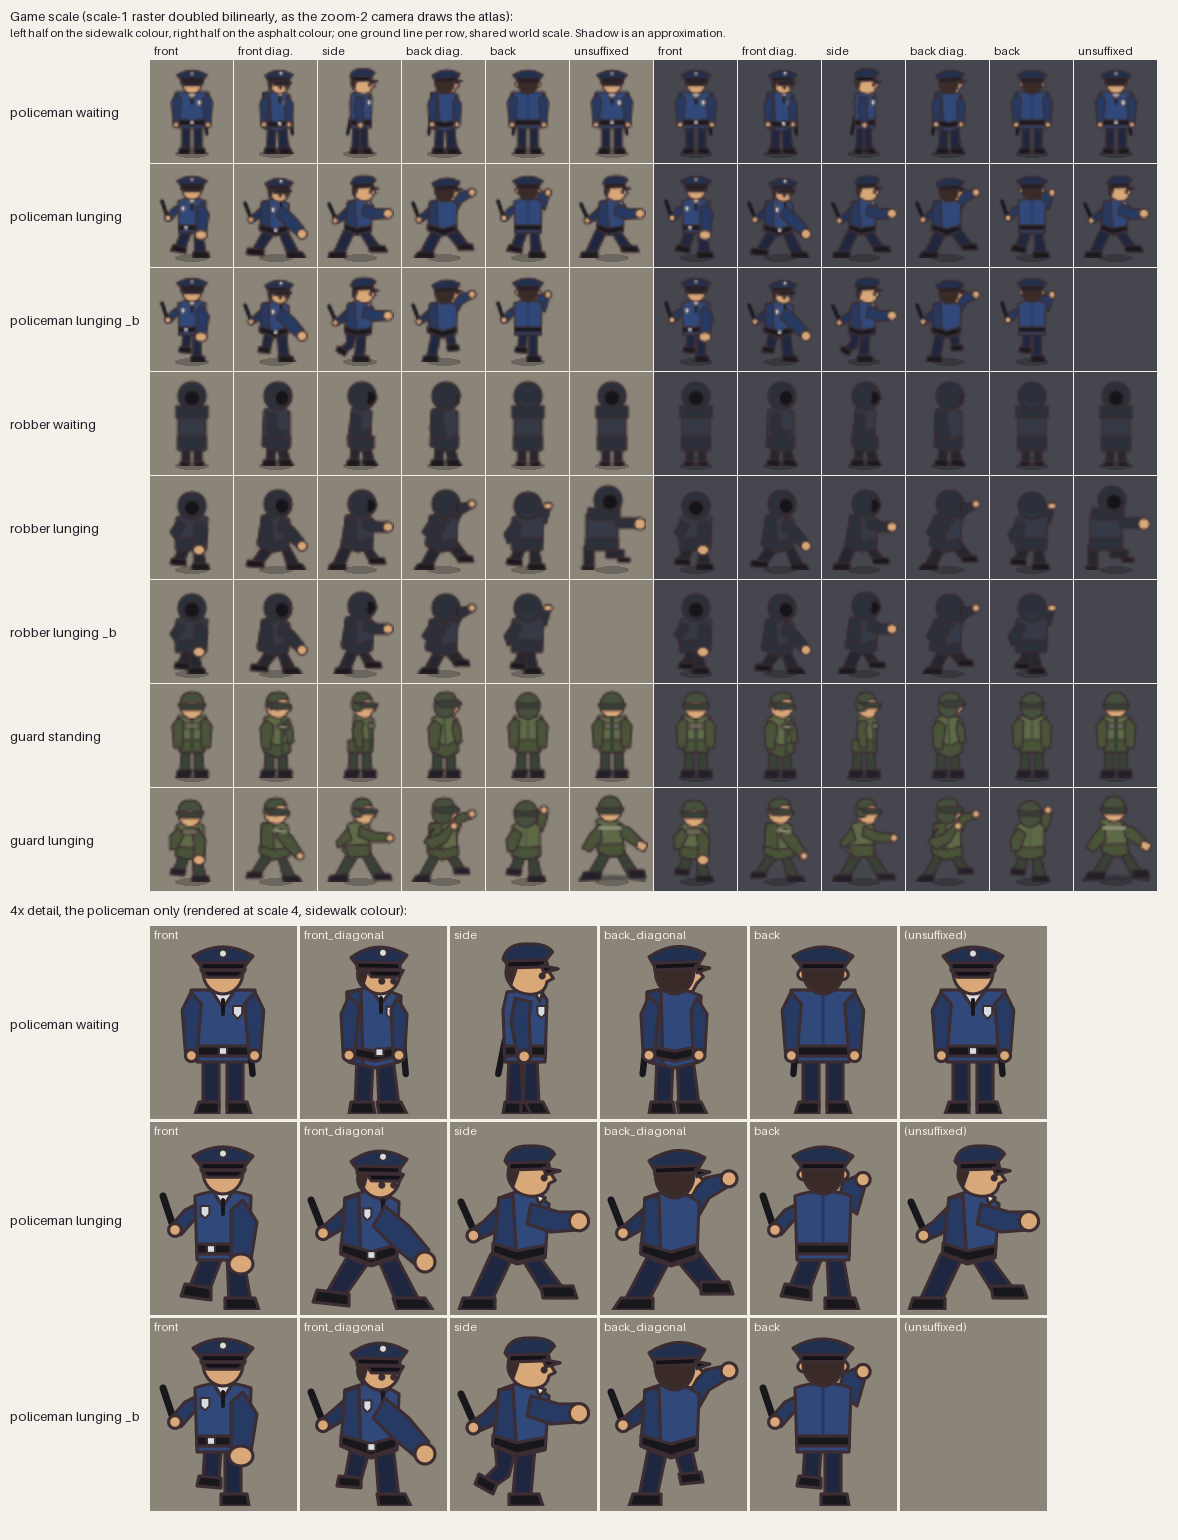
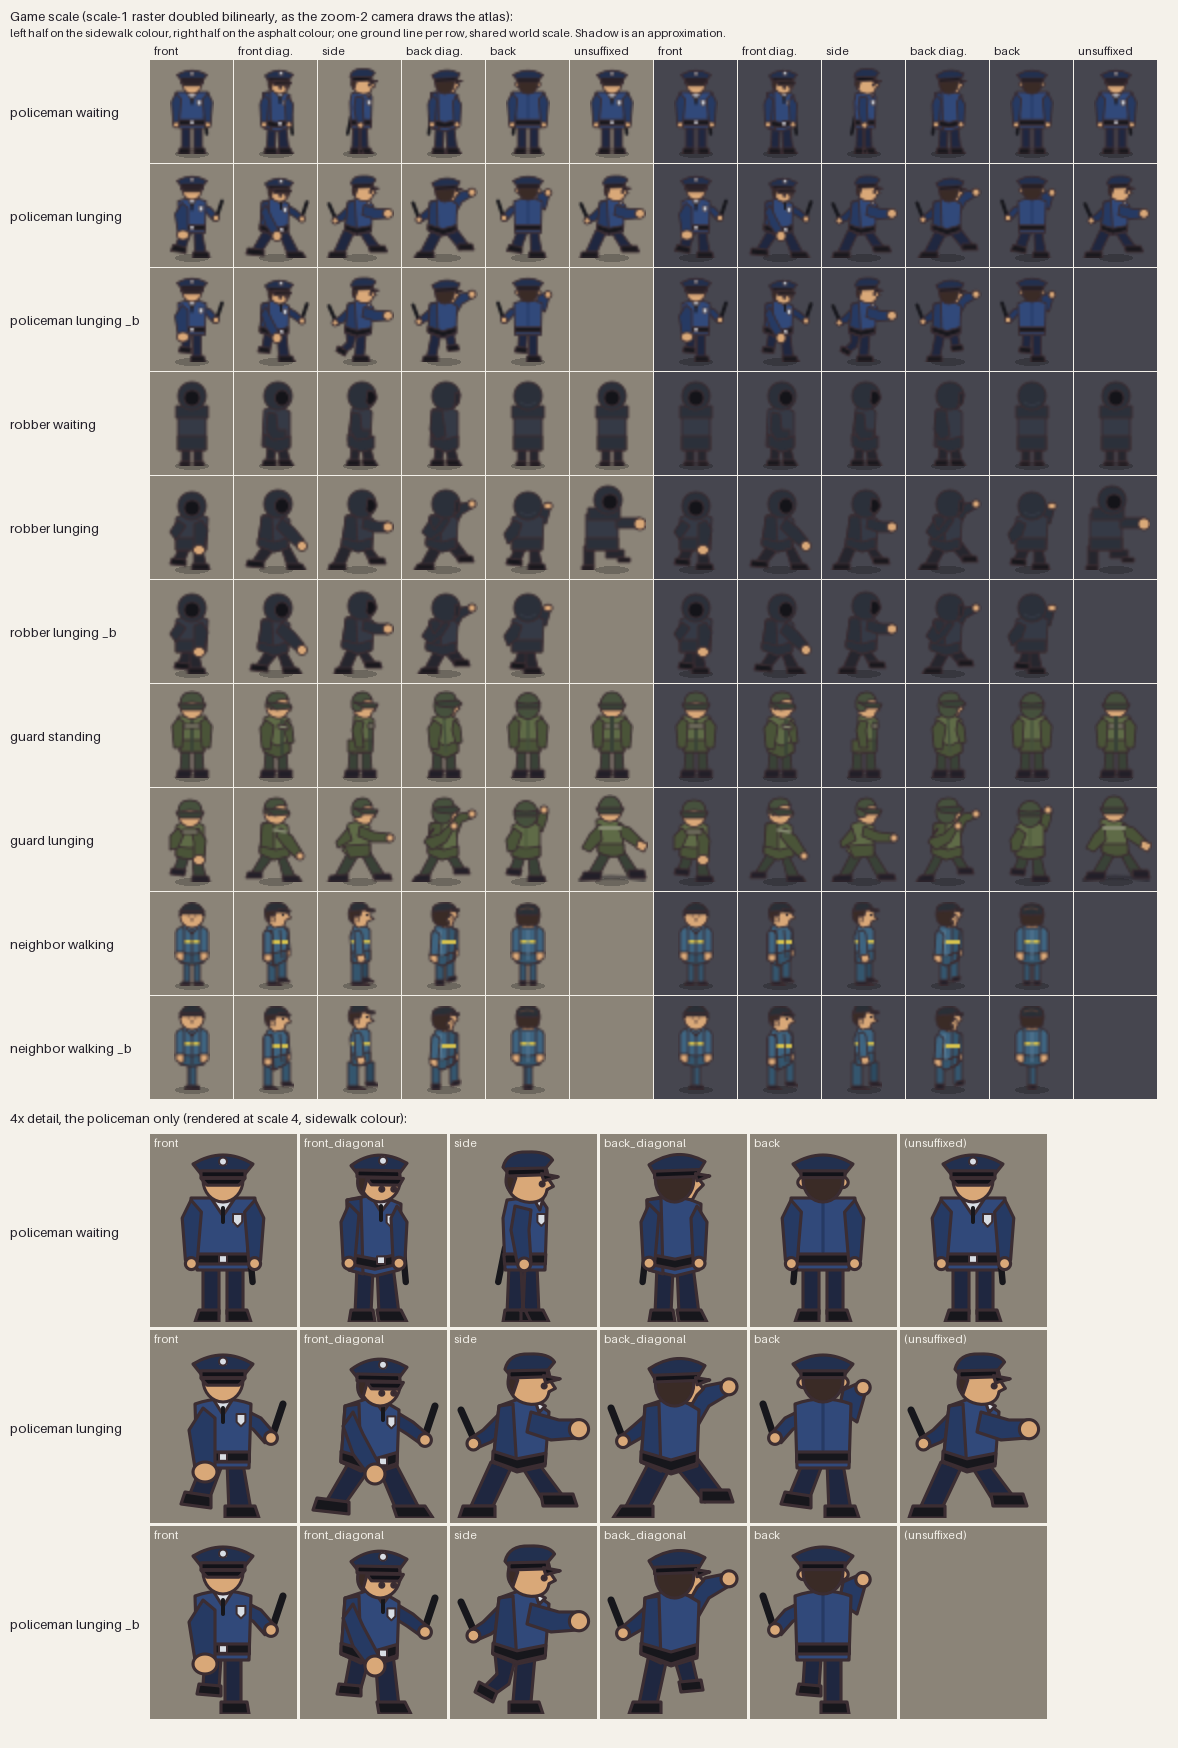
Policeman on foot: one left side in every view, the neighbor on the sheet
Review of #594. The front and front-diagonal lunges (and their _b frames) mirror
their arms, so the baton is in his left hand as in the side and back lunges, the
reach comes from his right, the badge sits on his left chest and the buckle under
the tie, as the waiting views have them; the waiting front diagonal's buckle is
centred under the tie too.

The review sheet adds the neighbor's walking views, the other blue figure with a
dark cap, so the two can be compared side by side. docs/GRAPHICS.md says the
policeman is drawn for the pursuer a torn poster is to send (inbox #591), not
what it sends today; the evidence README and the script's docstring describe the
finished set.

diff --git a/docs/evidence/policeman-on-foot-2026-10-05/review-sheet.py b/docs/evidence/policeman-on-foot-2026-10-05/review-sheet.py
@@ -8,13 +8,16 @@ at scale 1 and at scale 4, in a throwaway Godot project under the scratch direct
 then shows, on the game's own sidewalk and asphalt colours (`Palette.SIDEWALK`, `Palette.ASPHALT`):
 
 - **game scale**: the scale-1 raster doubled with bilinear filtering, which is what the camera at
-  zoom 2 does to the baked atlas region, for the policeman beside the robber and the checkpoint
-  guard, every family on one shared ground line and one shared world scale;
+  zoom 2 does to the baked atlas region, for the policeman beside the robber, the checkpoint
+  guard and the neighbor (the other blue figure with a dark cap), every family on one shared
+  ground line and one shared world scale;
 - **4x detail**: the policeman alone, rendered at scale 4, for joins and clipping.
 
 The soft ellipse under each figure stands in for the runtime's own drop shadow
 (`Palette.SHADOW`, black at 22%); its size is an approximation, not the runtime's.
-A view not yet drawn is an empty, labelled cell.
+A cell is empty where a family has no such picture: no family has an unsuffixed stride frame,
+and the neighbor has no unsuffixed picture at all. A cell labelled "not yet drawn" names a
+listed file that is missing.
 """
 
 from __future__ import annotations
@@ -50,6 +53,8 @@ FAMILIES: list[tuple[str, str, list[str]]] = [
     ("robber lunging _b", "art/events/robber_lunging{v}_b.svg", VIEWS),
     ("guard standing", "art/checkpoints/guard_standing{v}.svg", [*VIEWS, ""]),
     ("guard lunging", "art/checkpoints/guard_lunging{v}.svg", [*VIEWS, ""]),
+    ("neighbor walking", "art/events/neighbor{v}.svg", VIEWS),
+    ("neighbor walking _b", "art/events/neighbor{v}_b.svg", VIEWS),
 ]
 POLICE_ROWS = 3
 

diff --git a/docs/GRAPHICS.md b/docs/GRAPHICS.md
@@ -297,7 +297,7 @@ arm direction; ordinary movement suffixes describe the body's facing.
 | Owning design | Prepared assets, dimensions and registration |
 |---|---|
 | M100 — Small, real, and nobody's (alley review) | `art/tiles/alley_draft.svg` is a 32×32 paving alternative for comparison; the live alley tile is the runtime alley. |
-| The policeman on foot, the pursuer a torn poster sends (the player's note on GitHub Issues #591, "maybe a policeman on foot? (we will need a graphic for that anyway for the polic robber chase later)") | `art/events/policeman_waiting_{front,back,side,front_diagonal,back_diagonal}.svg` (22×44, ground anchor (11, 44)), `policeman_lunging_{view}.svg` and its stride frames `policeman_lunging_{view}_b.svg` (34×44, anchor (17, 44)), and the unsuffixed `policeman_waiting.svg` (the front view) and `policeman_lunging.svg` (the side view) for a badge silhouette — the robber's set one for one, same canvases, anchors and postures, so the runtime can drive him the way it drives the robber. Side and diagonal views are east-authored. A peaked cap, a police-blue tunic, a black duty belt and a baton, with the police car's own white in his collar and badge; the lunge reaches out with one hand and swings the baton with the other. No atlas page carries him yet. The [source review](evidence/policeman-on-foot-2026-10-05/README.md) shows every view at game scale beside the robber and the checkpoint guard. |
+| The policeman on foot, drawn for the pursuer on foot a torn poster is to send in place of today's police car (inbox #591, not yet queued: "maybe a policeman on foot? (we will need a graphic for that anyway for the polic robber chase later)") | `art/events/policeman_waiting_{front,back,side,front_diagonal,back_diagonal}.svg` (22×44, ground anchor (11, 44)), `policeman_lunging_{view}.svg` and its stride frames `policeman_lunging_{view}_b.svg` (34×44, anchor (17, 44)), and the unsuffixed `policeman_waiting.svg` (the front view) and `policeman_lunging.svg` (the side view) for a badge silhouette — the robber's set one for one, same canvases, anchors and postures, so the runtime can drive him the way it drives the robber. Side and diagonal views are east-authored. A peaked cap, a police-blue tunic, a black duty belt and a baton, with the police car's own white in his collar and badge; the baton is on his left in every view, at the hip while he waits and swung in his left hand while he lunges, and the lunge reaches out with his right, with the badge on his left chest and the buckle under the tie wherever the front shows. No atlas page carries him yet. The [source review](evidence/policeman-on-foot-2026-10-05/README.md) shows every view at game scale beside the robber and the checkpoint guard. |
 
 ### Unbound, with nothing to bind them
 

diff --git a/docs/evidence/policeman-on-foot-2026-10-05/README.md b/docs/evidence/policeman-on-foot-2026-10-05/README.md
@@ -1,16 +1,19 @@
 # The policeman on foot, source review
 
-**The question:** does the policeman on foot (inbox #591, the torn poster's pursuer) read at game
-scale as police and as a danger, and is he told apart at a glance from the alley robber, the
-checkpoint guard and the crowd?
+**The question:** does the policeman on foot (drawn for the pursuer on foot a torn poster is to
+send, inbox #591) read at game scale as police and as a danger, and is he told apart at a glance
+from the alley robber, the checkpoint guard, the neighbor and the crowd?
 
-`review-sheet.png` shows every `art/events/policeman_*.svg` view beside the robber
-(`art/events/robber_*.svg`) and the guard (`art/checkpoints/guard_*.svg`), each on the game's
+`review-sheet.png` shows all seventeen `art/events/policeman_*.svg` pictures beside the robber
+(`art/events/robber_*.svg`), the guard (`art/checkpoints/guard_*.svg`) and the neighbor
+(`art/events/neighbor_*.svg`, the other blue figure with a dark cap: steel-blue coveralls with a
+yellow reflective band and a soft work cap, where the policeman is navy in a peaked cap), each on the game's
 sidewalk colour and on its asphalt colour, at game scale: the scale-1 raster doubled with bilinear
-filtering, which is what the zoom-2 camera does to a baked atlas region. All three families share
+filtering, which is what the zoom-2 camera does to a baked atlas region. All four families share
 one ground line per row and one world scale. Below that, the policeman alone at scale 4 for joins
 and clipping. The soft ellipse under each figure stands in for the runtime's own drop shadow and is
-an approximation of its size. A view with no file yet is an empty cell labelled as such.
+an approximation of its size. The robber's set has no unsuffixed stride frame, so neither does
+the policeman's, and the neighbor has no unsuffixed picture at all; those cells are empty.
 
 These are source previews of a prepared asset, not a gameplay capture: no runtime code draws the
 policeman.
